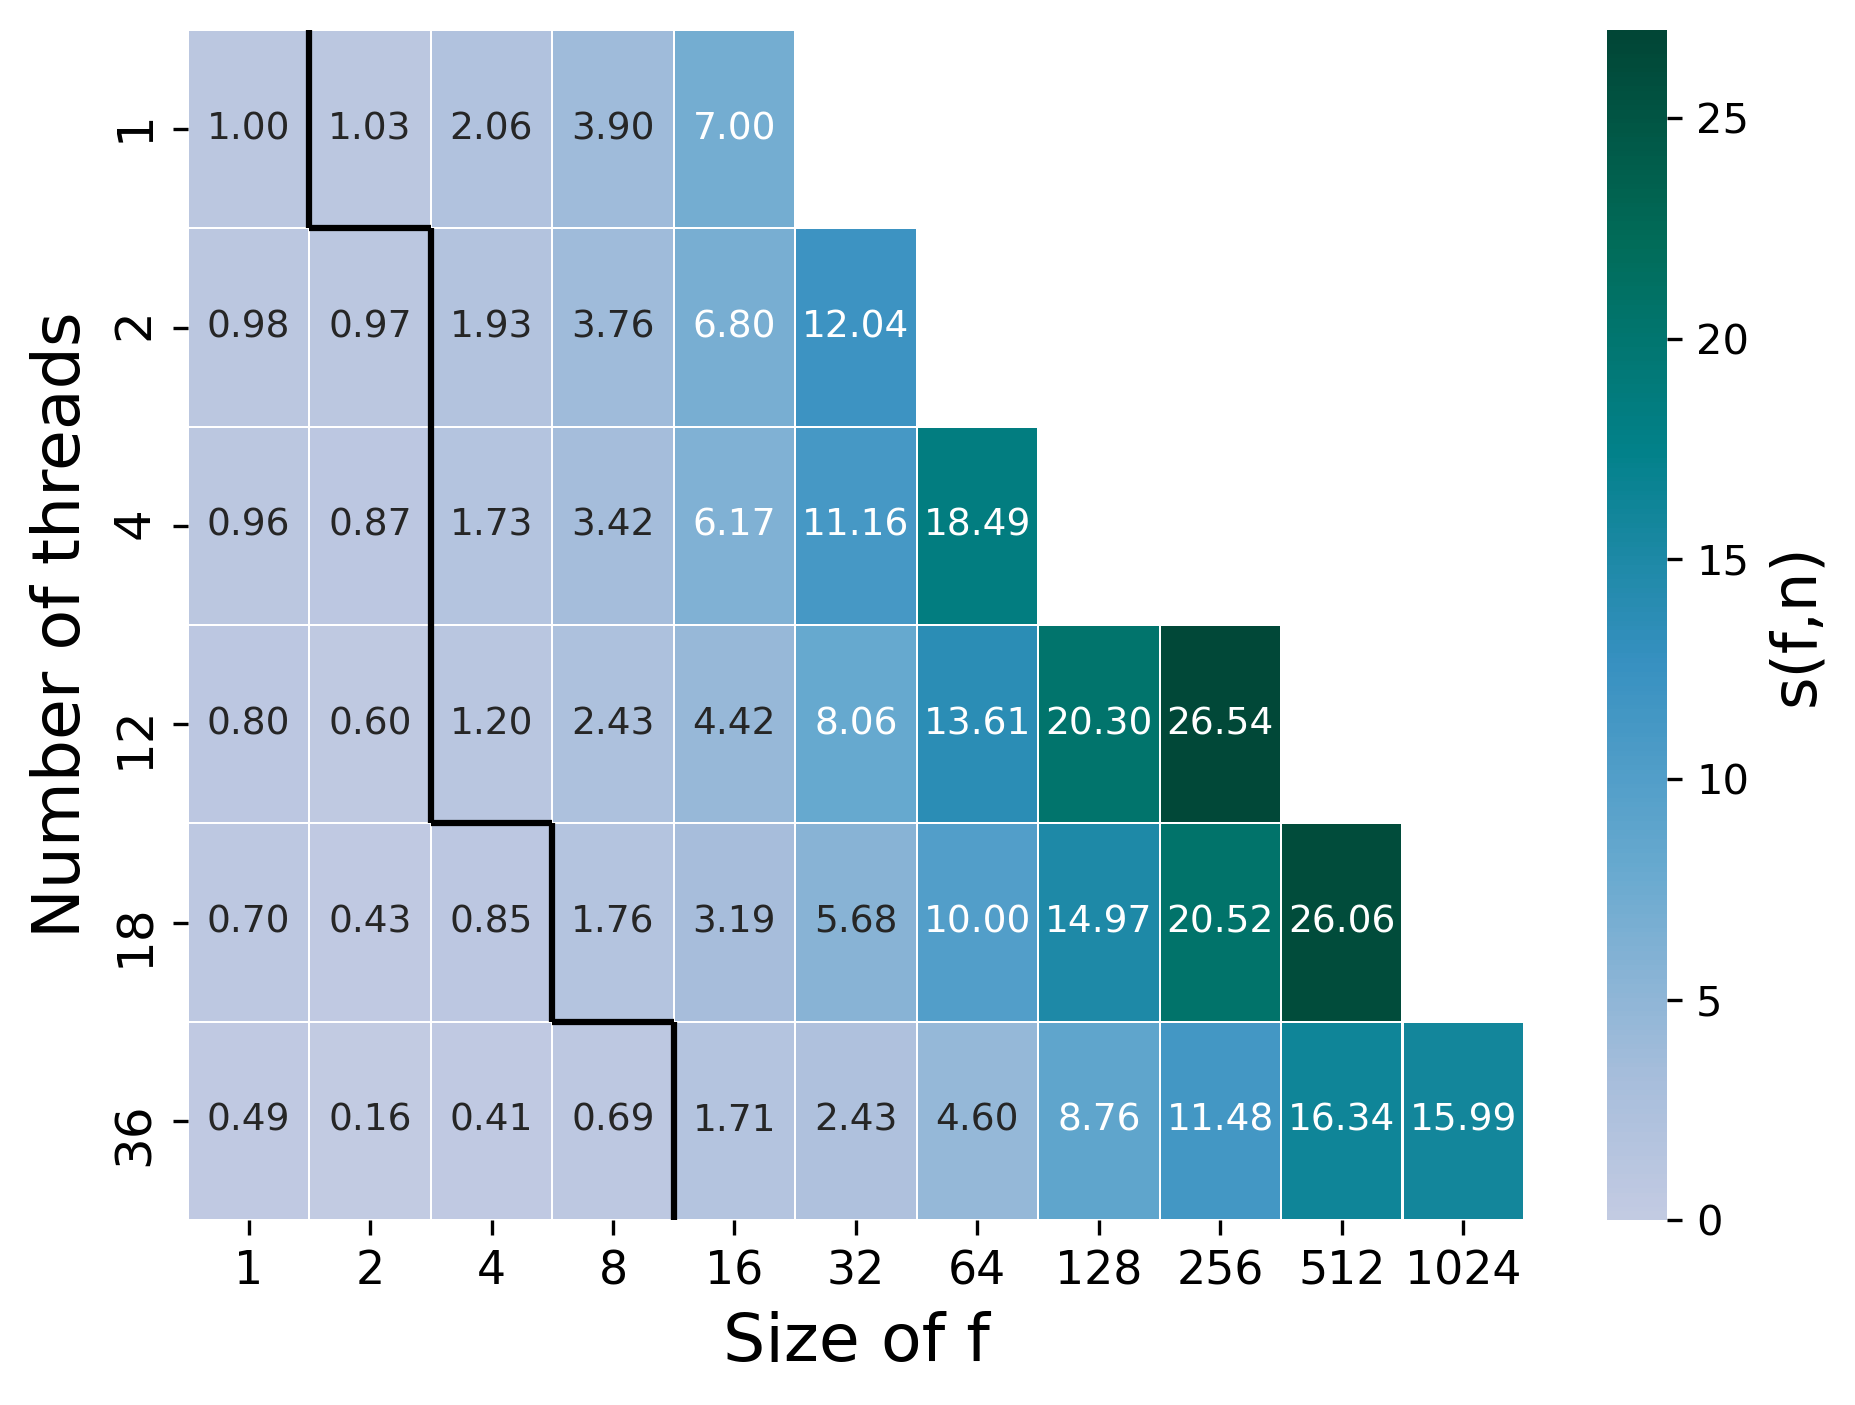
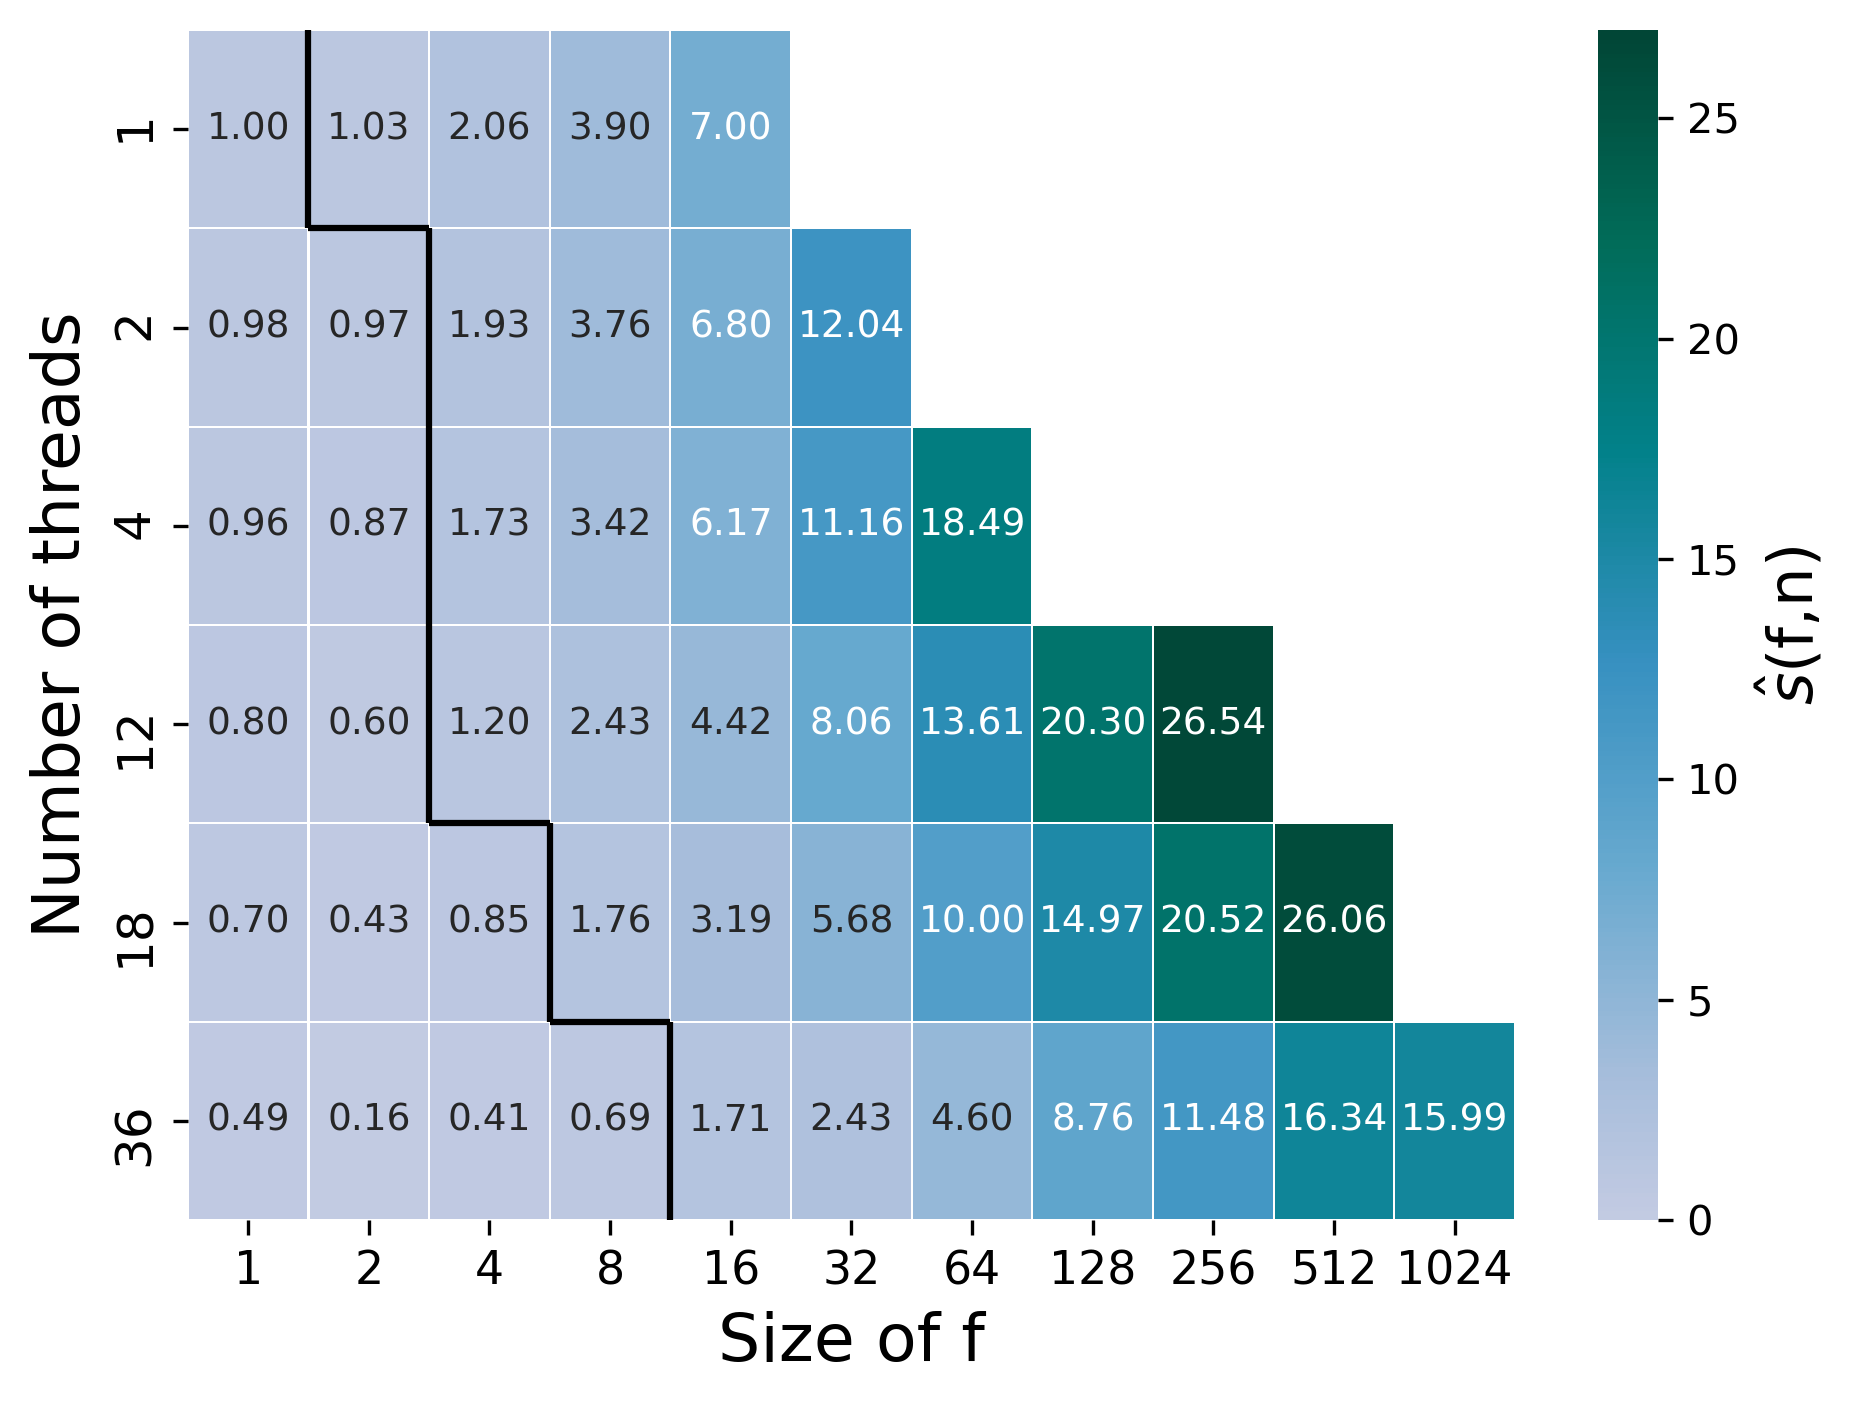
plots

diff --git a/accuracy/plot_fields.py b/accuracy/plot_fields.py
@@ -8,60 +8,32 @@ from matplotlib.colors import LogNorm
 import matplotlib.pyplot as plt
 from argparse import ArgumentParser
 from numpy import linalg as la
+from matplotlib.patches import Circle, PathPatch
 
-# we divide by 1000 to use kilometers
-rLim=[2500000./1000, 7000000./1000.]
-earthRad=6371000./1000
-modelThickness=2891000./1000
-# the cmb has a radius = earthRad - modelThickness
-cmbRad=earthRad-modelThickness
+# radius of the earth
+earthRadius = 6371. #km
+# thickness of the mantle
+mantleThickness = 2891. # km
+# the radius of the core-mantle boundary
+cmbRadius = earthRadius - mantleThickness
+
+transition=5701.
+
+def plotTransitionBD(ax):
+  cmbTh = np.linspace(0, 2*np.pi, 100)
+  ax.plot(cmbTh, transition*np.ones(100), c='k', linestyle='--', linewidth=0.25, zorder=2)
 
 def plotCMB(ax):
   # trace the CMB
   cmbTh = np.linspace(0, 2*np.pi, 100)
-  cmbRa = cmbRad*np.ones(100)
-  ax.plot(cmbTh, cmbRa, c='b', linestyle='--')
+  cmbRa = cmbRadius*np.ones(100)
+  ax.plot(cmbTh, cmbRa, c='k', linestyle='-', linewidth=0.5, zorder=2)
 
 def plotEarthSurf(ax):
   # trace the earth surface
   surfTh = np.linspace(0, 2*np.pi, 100)
-  surfRa = earthRad*np.ones(100)
-  ax.plot(surfTh, surfRa, c='b')
-
-#=========================================
-def str2bool(v):
-  if isinstance(v, bool):
-    return v
-  if v.lower() in ('yes', 'true', 't', 'y', '1'):
-    return True
-  elif v.lower() in ('no', 'false', 'f', 'n', '0'):
-    return False
-  else:
-    raise argparse.ArgumentTypeError('Boolean value expected.')
-
-#=========================================
-def loadStates(fomFile, approxFile, dofName):
-  # load states
-  if not os.path.exists(fomFile):
-    print("fom final state {} does not exist".format(fomFile))
-    sys.exit(1)
-
-  if not os.path.exists(approxFile):
-    print("approx final state {} does not exist".format(approxFile))
-    sys.exit(1)
-
-  print("reading fom    state {}".format(fomFile))
-  print("reading approx state {}".format(approxFile))
-
-  # load data (skip first row because it contains the size)
-  fomState              = np.loadtxt(fomFile, skiprows=1)
-  fomStateReconstructed = np.loadtxt(approxFile, skiprows=1)
-  fomNRows = fomState.shape[0]
-  approxNRows = fomStateReconstructed.shape[0]
-  # if things are correct, this should be a single vector and approx/fom match sizes
-  assert( fomNRows == approxNRows )
-
-  return [fomState, fomStateReconstructed]
+  surfRa = earthRadius*np.ones(100)
+  ax.plot(surfTh, surfRa, c='k', linewidth=0.5)
 
 #=========================================
 def computeErrors(fomState, fomStateReconstructed, dofName):
@@ -76,114 +48,86 @@ def computeErrors(fomState, fomStateReconstructed, dofName):
   print(" {}_err_abs_rel_linf_norms = {} {}".format(dofName, errLinfNorm[0], errLinfNorm[1]))
 
 
-def extractMeshSizeTheta(logFilePath, dof):
-  reg = re.compile(r'nth = \d+')
-  file1 = open(logFilePath, 'r')
-  strings = re.search(reg, file1.read())
-  file1.close()
-  assert(strings)
-  return int(strings.group().split()[2])
+#=========================================
+def doPlot(th, r, z, figID, cm, bd, fileName, label, Tvalue=-1):
+  fig1 = plt.figure(figID)
+  ax1 = fig1.add_subplot(111, projection='polar')
 
-def extractMeshSizeRadius(logFilePath, dof):
-  reg = re.compile(r'nr = \d+')
-  file1 = open(logFilePath, 'r')
-  strings = re.search(reg, file1.read())
-  file1.close()
-  assert(strings)
-  return int(strings.group().split()[2])
+  h1=ax1.pcolormesh(th, r, z, cmap=cm, shading = "flat", vmin=bd[0],vmax=bd[1], zorder=1)
+
+  ax1.set_ylim([cmbRadius, earthRadius])
+  ax1.set_yticks([]) #[3480, 5701, 6371])
+  #plt.yticks(fontsize=13)
+
+
+  ax1.set_thetamin(-90)
+  ax1.set_thetamax(90)
+  ax1.set_xticks(np.pi/180. * np.linspace(-90, 90., 7, endpoint=True))
+  ax1.set_xticklabels([r'$\pi$', r'$5\pi/6$', r'$4\pi/6$', r'$\pi/2$', r'$2\pi/6$', r'$\pi/6$', r'$0$'],fontsize=11)
+
+  #ax1.grid(linewidth=0.1)
+  ax1.set_rorigin(-1)
+  plotEarthSurf(ax1)
+  plotCMB(ax1)
+  plotTransitionBD(ax1)
+  fig1.colorbar(h1)
+
+  if label=='fom':
+    plt.text(-5, 0, 'T='+str(Tvalue), horizontalalignment='center', rotation=90,
+             verticalalignment='center', fontsize=16)
+    plt.text(0, 1400, 'FOM', horizontalalignment='center', rotation=90,
+             verticalalignment='center', fontsize=16)
+  elif label=='rom':
+    plt.text(0, 1400, 'ROM', horizontalalignment='center', rotation=90,
+             verticalalignment='center', fontsize=16)
+  elif label=='err':
+    plt.text(0, 1400, 'Error', horizontalalignment='center', rotation=90,
+             verticalalignment='center', fontsize=16)
+
+  plt.tight_layout()
+  fig1.savefig(fileName, format="png",bbox_inches='tight', dpi=300)
+
 
 ###############################
 if __name__== "__main__":
 ###############################
   # plot final velocity data for:
-  # T=65 (reproductive)
-  #   dir = fom_mesh512x2048_nThreads_36_dt_0.1_T_2000.0_snaps_true_seismo_true_mat_prem_fRank_1_test_13
-
   # T=51.78003645 (middle of the sampling range)
-  #   dir = fom_mesh512x2048_nThreads_36_dt_0.1_T_2000.0_snaps_true_seismo_true_mat_prem_fRank_1_test_0
+  # T=69 (extrapolation)
 
-  # T=31 (extrapolation)
-  #   dir = fom_mesh512x2048_nThreads_36_dt_0.1_T_2000.0_snaps_true_seismo_true_mat_prem_fRank_1_test_10
-
-  # load coordinates (which are the same for every case)
+  #load coordinates (which are the same for every case)
   nr, nth = 512, 2048
   cc = np.loadtxt("./data/coords_vp.txt")
-  th, r = -cc[:,0]+np.pi/2., cc[:, 1]
+  th, r = -cc[:,0]+np.pi/2., cc[:, 1]/1000. #m to km
   th, r = th.reshape((nr,nth)), r.reshape((nr,nth))
 
-  Tvals = [65, 51.78003645, 31]
+  Tprint = ['51.78', '69']
+  Tvals  = [51.78003645, 69]
+  fomFiles = ['./data/fom_mesh512x2048_nThreads_36_dt_0.1_T_2000.0_snaps_true_seismo_true_mat_prem_fRank_1_test_0/finalFomState_vp_0',
+              './data/fom_mesh512x2048_nThreads_36_dt_0.1_T_2000.0_snaps_true_seismo_true_mat_prem_fRank_1_test_11/finalFomState_vp_0']
 
-  fomFiles = ['./data/fom_mesh512x2048_nThreads_36_dt_0.1_T_2000.0_snaps_true_seismo_true_mat_prem_fRank_1_test_13/finalFomState_vp_0',
-              './data/fom_mesh512x2048_nThreads_36_dt_0.1_T_2000.0_snaps_true_seismo_true_mat_prem_fRank_1_test_0/finalFomState_vp_0',
-              './data/fom_mesh512x2048_nThreads_36_dt_0.1_T_2000.0_snaps_true_seismo_true_mat_prem_fRank_1_test_10/finalFomState_vp_0']
+  romFiles = ['./data/rom_mesh512x2048_nThreads_18_dt_0.1_T_2000.0_snaps_true_mat_prem_fRank_14_nPod_436_436/finalFomState_vp_0',
+              './data/rom_mesh512x2048_nThreads_18_dt_0.1_T_2000.0_snaps_true_mat_prem_fRank_14_nPod_436_436/finalFomState_vp_11']
 
-  romFiles = ['./data/rom_mesh512x2048_nThreads_18_dt_0.1_T_2000.0_snaps_true_mat_prem_fRank_14_nPod_415_415/finalFomState_vp_13',
-              './data/rom_mesh512x2048_nThreads_18_dt_0.1_T_2000.0_snaps_true_mat_prem_fRank_14_nPod_415_415/finalFomState_vp_0',
-              './data/rom_mesh512x2048_nThreads_18_dt_0.1_T_2000.0_snaps_true_mat_prem_fRank_14_nPod_415_415/finalFomState_vp_10']
-
-  interpFiles = ['./data/interpolation_n2/linear_test13.txt',
-                 './data/interpolation_n2/linear_test0.txt',
-                 './data/interpolation_n2/linear_test10.txt']
-
-  cm = plt.cm.get_cmap('PuOr') #BrBG_r')
-  for T,fom,rom,interp in zip(Tvals[0:1], fomFiles[0:1], romFiles[0:1], interpFiles[0:1]):
+  cm1 = plt.cm.get_cmap('PuOr')
+  cm2 = plt.cm.get_cmap('BrBG_r')
+  cm3 = plt.cm.get_cmap('PiYG')
+  for T,fom,rom in zip(Tprint[1:], fomFiles[1:], romFiles[1:]):
     print(T,fom,rom)
+
+    # fom
     fomState = np.loadtxt(fom, skiprows=1)
+    fileName = 'fom_T_'+str(T)+'.png'
+    doPlot(th, r, fomState.reshape((nr, nth)), 0, cm1, [-3e-10, 3e-10], fileName, 'fom', T)
+
+    # rom
     romState = np.loadtxt(rom, skiprows=1)
-    computeErrors(fomState, romState, "vp")
+    fileName = 'rom_436_T_'+str(T)+'.png'
+    doPlot(th, r, romState.reshape((nr, nth)), 1, cm1, [-3e-10, 3e-10], fileName, 'rom')
+
+    # computeErrors(fomState, romState, "vp")
     error = fomState-romState
+    fileName = 'error_T_'+str(T)+'.png'
+    doPlot(th, r, error.reshape((nr, nth)), 2, cm1, [-3e-10, 3e-10], fileName, 'err')
 
-
-    fig1 = plt.figure(0)
-    ax1 = fig1.add_subplot(111, projection='polar')
-    h1=ax1.pcolormesh(th, r, fomState.reshape((nr,nth)), cmap=cm, shading = "flat",
-                      vmin=-8e-10, vmax=8e-10)
-    ax1.set_rlabel_position(260)
-    fig1.colorbar(h1)
     plt.show()
-
-
-
-
-
-  # [fomState, fomStateReconstructed] = loadStates(args.fomState, args.approxState, "vp")
-  # computeErrors(fomState, fomStateReconstructed, "vp")
-  # error = fomState-fomStateReconstructed
-
-  # # should find from log file inside fom dir the mesh size
-
-  # cc = np.loadtxt("./coords_vp.txt")
-
-  # cm = plt.cm.get_cmap('PuOr') #BrBG_r')
-
-  # fig1 = plt.figure(1)
-  # ax1 = fig1.add_subplot(111, projection='polar')
-  # h1=ax1.pcolormesh(th, r, fomState.reshape((nr,nth)),
-  #                   cmap=cm, shading = "flat",
-  #                   vmin=-8e-10, vmax=8e-10)
-  # ax1.set_rlabel_position(260)
-  # fig1.colorbar(h1)
-
-  # fig2 = plt.figure(2)
-  # ax2 = fig2.add_subplot(111, projection='polar')
-  # h2=ax2.pcolormesh(th, r, fomStateReconstructed.reshape((nr,nth)),
-  #                   cmap=cm, shading = "flat",
-  #                   vmin=-8e-10, vmax=8e-10)
-  # ax2.set_rlabel_position(260)
-  # fig2.colorbar(h2)
-
-  # fig3 = plt.figure(3)
-  # ax3 = fig3.add_subplot(111, projection='polar')
-  # h3=ax3.pcolormesh(th, r, error.reshape((nr,nth)),
-  #                   cmap="binary", shading = "flat",
-  #                   vmin=-8e-10, vmax=8e-10)
-  # ax3.set_rlabel_position(260)
-  # fig3.colorbar(h3)
-
-  # plt.show()
-
-
-  # # com = plt.cm.get_cmap('PuOr') #BrBG_r')
-  # # ax.pcolormesh(th, r, z, cmap=com, shading = "flat",
-  # #               alpha=1, vmin=-8e-10, vmax=8e-10)
-  # # #fig.savefig("snap.png", format="png", bbox_inches='tight', dpi=300)

diff --git a/rom_scaling/rom_speedup_plot.py b/rom_scaling/rom_speedup_plot.py
@@ -138,7 +138,7 @@ def do2dPlot(dataMatrix, thCases, fCases, romSize, nThr, N):
   ax = sea.heatmap(dataMatrix, annot=True, center=8, annot_kws={"size": 9},
                    fmt="3.2f", linecolor='white', vmin=0, vmax=27,
                    linewidths=.25, mask=mask, cmap=cm,
-                   cbar_kws={'label': 's(f,n)'})
+                   cbar_kws={'label': r'$\hat{s}$(f,n)'})
 
   ax.figure.axes[-1].yaxis.label.set_size(15)
 

diff --git a/fom_scaling/fom_speedup_ploy.py b/fom_scaling/fom_speedup_ploy.py
@@ -37,7 +37,7 @@ def createRowAndColMappers(thCases, fCases):
 
 #=====================================================================
 def extractLoopTime(dataRow):
-  # the loop time is stored in col 14
+  # the loop time is stored in col
   return dataRow[13]
 
 #=====================================================================
